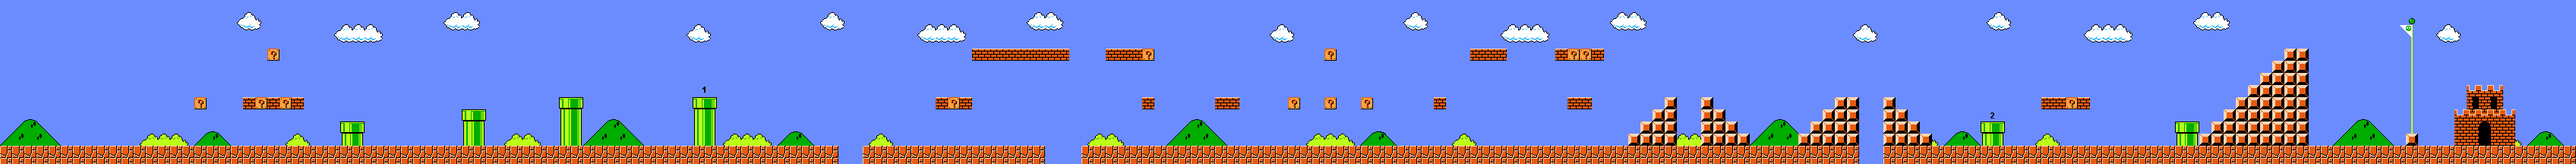
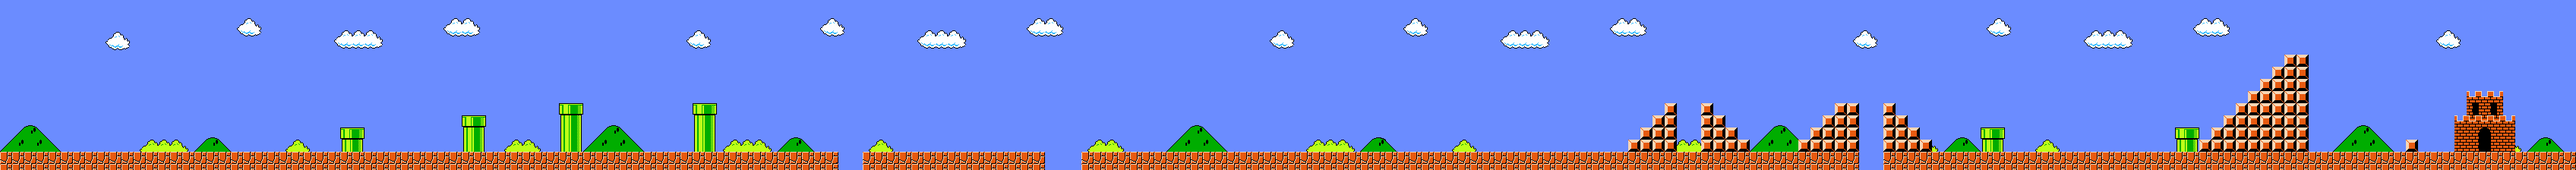
Mario: Gesamte Welt wird geladen

diff --git a/ArcadeDesktop/src/SuperMarioBros/World.java b/ArcadeDesktop/src/SuperMarioBros/World.java
@@ -127,17 +127,24 @@ public class World {
 			BufferedWriter writer = new BufferedWriter(new FileWriter(new File("files/SuperMarioBros/world.txt")));
 			BufferedImage world= Game.imageLoader.load("images/SuperMarioBros/World1Test.png");
 			writer.write((world.getWidth() - 16)/16 + "\n");
-			writer.write((int) world.getHeight()/16 + "\n");
+			writer.write(((int) world.getHeight()/16 + 1) + "\n");
 			blocks = new Block[world.getHeight()/16][world.getWidth()/16];
-			for(int blockY = 0;blockY < world.getHeight() -16; blockY += 16) {
-				for(int blockX = 0;blockX < world.getWidth() - 8; blockX += 16) {
-					BufferedImage blockImage = world.getSubimage(blockX, blockY, 16, 16);
+			for(int blockY = 0;blockY < world.getHeight(); blockY += 16) {
+				for(int blockX = 0;blockX < world.getWidth() - 16; blockX += 16) {
+					BufferedImage blockImage;
+					if(blockY == world.getHeight() - 8) {
+						blockImage = world.getSubimage(blockX, blockY - 16, 16, 16);
+					}
+					else {
+						blockImage = world.getSubimage(blockX, blockY, 16, 16);
+					}
 					Material[] materials = Material.values();
 					for(int i = 0; i < materials.length; i++) {
 						if(compareImages(materials[i].getTexture(), blockImage)) {
 							writer.write(i + " ");
 							break;
 							}
+						if(i == materials.length -1) writer.write(0 + " ");
 					}
 				}
 				writer.write("\n");

diff --git a/ArcadeDesktop/src/SuperMarioBros/MarioWorldState.java b/ArcadeDesktop/src/SuperMarioBros/MarioWorldState.java
@@ -45,7 +45,7 @@ public class MarioWorldState extends State {
 		endButtonY =  GamePanel.height / GamePanel.SCALE / 2 + 5;
 		
 		world = new World(filepath);
-		player = new Player(10, 160, 8, 31, 2f);
+		player = new Player(64, 160, 8, 31, 2f);
 		camera = new Camera(player);
 		mouse = GamePanel.mouse;
 	}

diff --git a/ArcadeDesktop/src/SuperMarioBros/Material.java b/ArcadeDesktop/src/SuperMarioBros/Material.java
@@ -14,7 +14,7 @@ public enum Material {
 	ITEM_BLOCK_MIDDLE(25, false),
 	ITEM_BLOCK_DARK(26, false),
 	BROWN_ITEM_OUT(3,false),
-	BROWN_HARD_BLOCK(34, false),
+	BROWN_HARD_BLOCK(33, false),
 	HILL_UP(272, true),
 	HILL_TOP(273, true),
 	HILL_DOWN(274, true),
